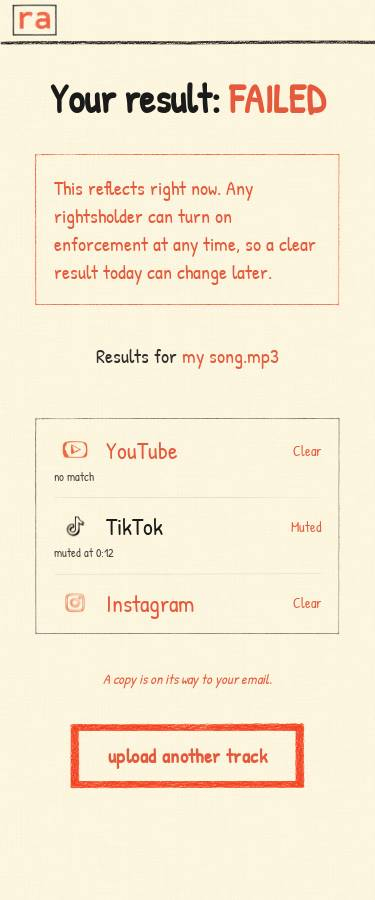
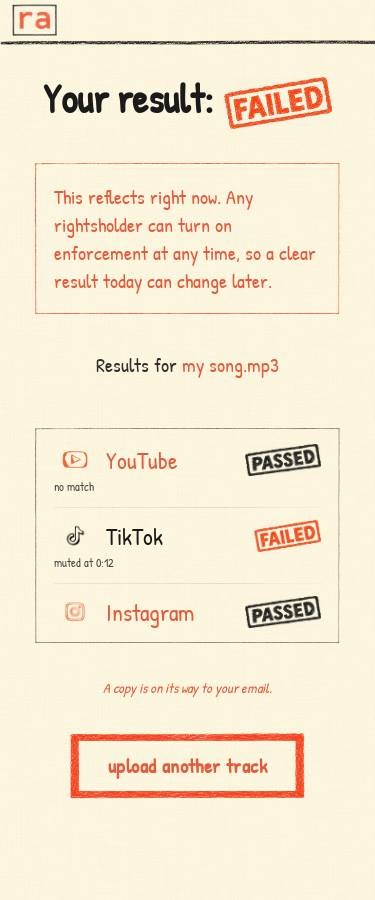
MS-004 fix (Reject3): Spencer's PASSED / FAILED stamps on the result page
- Copy Spencer's stamp art (Dev Assets / Moonshots / Copyright Detector,
  passed.png / failed.png) into public/brand-assets/stamps/ as 640px webp
  with alpha, like the other brand assets.
- Headline: black "Your result:" then the PASSED or FAILED stamp on the same
  line, replacing the text.
- Platform rows: PASSED stamp for Clear, FAILED stamp for Claimed / Muted,
  replacing the text (alt/title keep the exact result). Couldn't check,
  Checking… and Queued stay as text.
- Cache-bust styles.css ms004-r3, result.js ms004-r4. e2e + result
  screenshots updated.

Email, cron send path, emailed_at and bot/ untouched.

diff --git a/clearance-check/public/result.js b/clearance-check/public/result.js
@@ -17,6 +17,24 @@ const LABEL = {
   error: 'Couldn’t check',
 };
 
+// Reject3: Spencer's PASSED / FAILED stamps replace the pass/fail text in the
+// headline and next to each platform. Alt text keeps the exact result.
+const STAMP = { passed: '/brand-assets/stamps/passed.webp', failed: '/brand-assets/stamps/failed.webp' };
+const STAMPED = { clear: 'passed', claimed: 'failed', muted: 'failed' };
+
+// Put a stamp in el (reusing it if it's already the same one).
+function setStamp(el, kind, alt, cls) {
+  const img = el.querySelector('img.stamp');
+  if (img && img.dataset.kind === kind && img.alt === alt) return;
+  const next = document.createElement('img');
+  next.className = `stamp ${cls}`;
+  next.src = STAMP[kind];
+  next.alt = alt;
+  next.title = alt;
+  next.dataset.kind = kind;
+  el.replaceChildren(next);
+}
+
 // One row per platform, built once and updated in place.
 const rows = {};
 for (const p of PLATFORMS) {
@@ -49,14 +67,15 @@ function render(row) {
     li.dataset.result = result || 'pending';
     const status = li.querySelector('.platform-status');
     status.dataset.result = result;
-    status.textContent = result === 'pending' && row.status === 'queued' ? 'Queued' : LABEL[result] || result;
+    if (STAMPED[result]) setStamp(status, STAMPED[result], LABEL[result], 'stamp-platform');
+    else status.textContent = result === 'pending' && row.status === 'queued' ? 'Queued' : LABEL[result] || result;
     li.querySelector('.platform-note').textContent = row[`${p.key}_note`] || '';
   }
 
   const allIn = PLATFORMS.every((p) => row[`${p.key}_result`] !== 'pending');
   if (allIn) {
     const v = verdictFor(row);
-    verdict.textContent = v.headline;
+    setStamp(verdict, v.flagged ? 'failed' : 'passed', v.headline, 'stamp-headline');
     verdict.dataset.flagged = String(v.flagged);
   } else {
     // Until all three are in, the red half of the headline is the progress.

diff --git a/clearance-check/public/r/index.html b/clearance-check/public/r/index.html
@@ -9,7 +9,7 @@
   <link rel="preconnect" href="https://fonts.googleapis.com">
   <link rel="preconnect" href="https://fonts.gstatic.com" crossorigin>
   <link href="https://fonts.googleapis.com/css2?family=Patrick+Hand&family=Inter:wght@400;500;600;700&display=swap" rel="stylesheet">
-  <link rel="stylesheet" href="/styles.css?v=ms004-r2">
+  <link rel="stylesheet" href="/styles.css?v=ms004-r3">
   <meta name="robots" content="noindex">
 </head>
 <body>
@@ -27,7 +27,7 @@
     <main class="main">
       <div class="container">
         <div class="narrow stack">
-          <!-- Reject1: black "Your result:" then the verdict, same size, in brand red. -->
+          <!-- Reject1/3: black "Your result:" then the PASSED / FAILED stamp on the same line. -->
           <h1 class="text-h1 headline"><span class="headline-label">Your result:</span> <span id="verdict" aria-live="polite"></span></h1>
 
           <div class="box-sketched-light-red">
@@ -49,6 +49,6 @@
       </div>
     </main>
   </div>
-  <script src="/result.js?v=ms004-r3" type="module"></script>
+  <script src="/result.js?v=ms004-r4" type="module"></script>
 </body>
 </html>

diff --git a/clearance-check/public/styles.css b/clearance-check/public/styles.css
@@ -435,6 +435,10 @@ h1, h2, h3, p { margin: 0; }
 .headline-label { color: var(--color-black); }
 .track-name { color: var(--color-red); }
 #footnote { color: var(--color-red); font-style: italic; }
+/* Reject3: PASSED / FAILED stamps (Spencer's art) in the headline and per platform. */
+.stamp { display: inline-block; width: auto; max-width: none; vertical-align: middle; }
+.stamp-headline { height: 1.3em; margin-left: 0.05em; }
+.stamp-platform { display: block; height: 32px; }
 .warning { font-size: 20px; line-height: 1.4; color: var(--color-red); }
 /* Landing: same warning box as the result page, form width, above the form. */
 .landing-warning { max-width: 448px; margin: 0 auto 24px; }

diff --git a/clearance-check/public/index.html b/clearance-check/public/index.html
@@ -9,7 +9,7 @@
   <link rel="preconnect" href="https://fonts.googleapis.com">
   <link rel="preconnect" href="https://fonts.gstatic.com" crossorigin>
   <link href="https://fonts.googleapis.com/css2?family=Patrick+Hand&family=Inter:wght@400;500;600;700&display=swap" rel="stylesheet">
-  <link rel="stylesheet" href="/styles.css?v=ms004-r2">
+  <link rel="stylesheet" href="/styles.css?v=ms004-r3">
 </head>
 <body>
   <div class="page surface-sketched">
